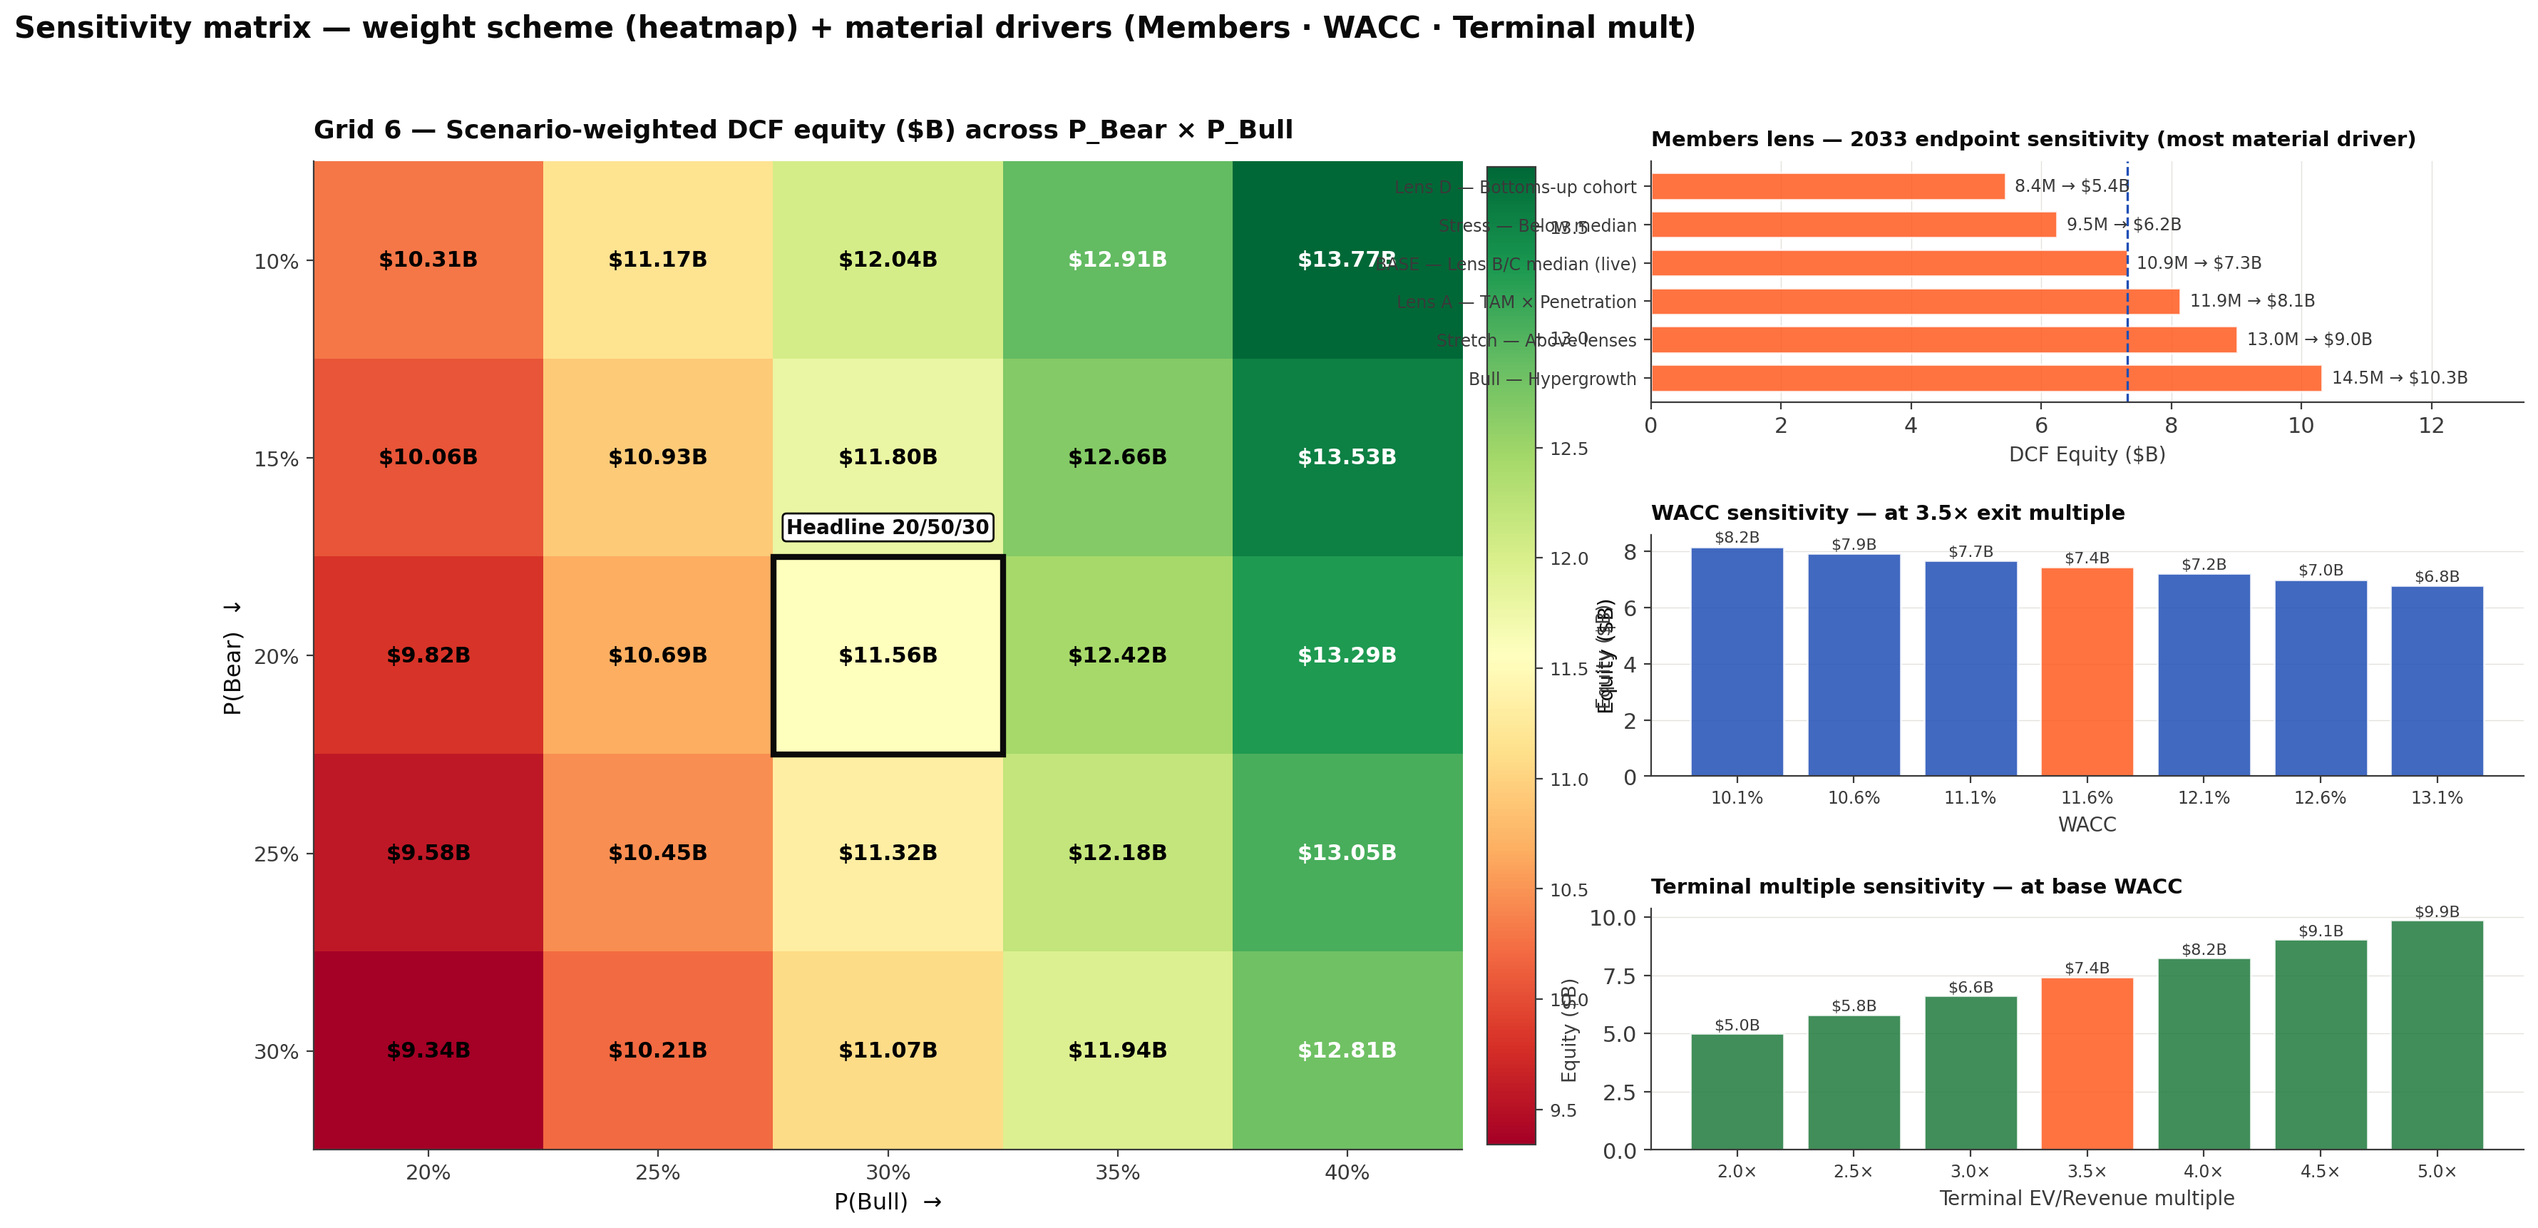
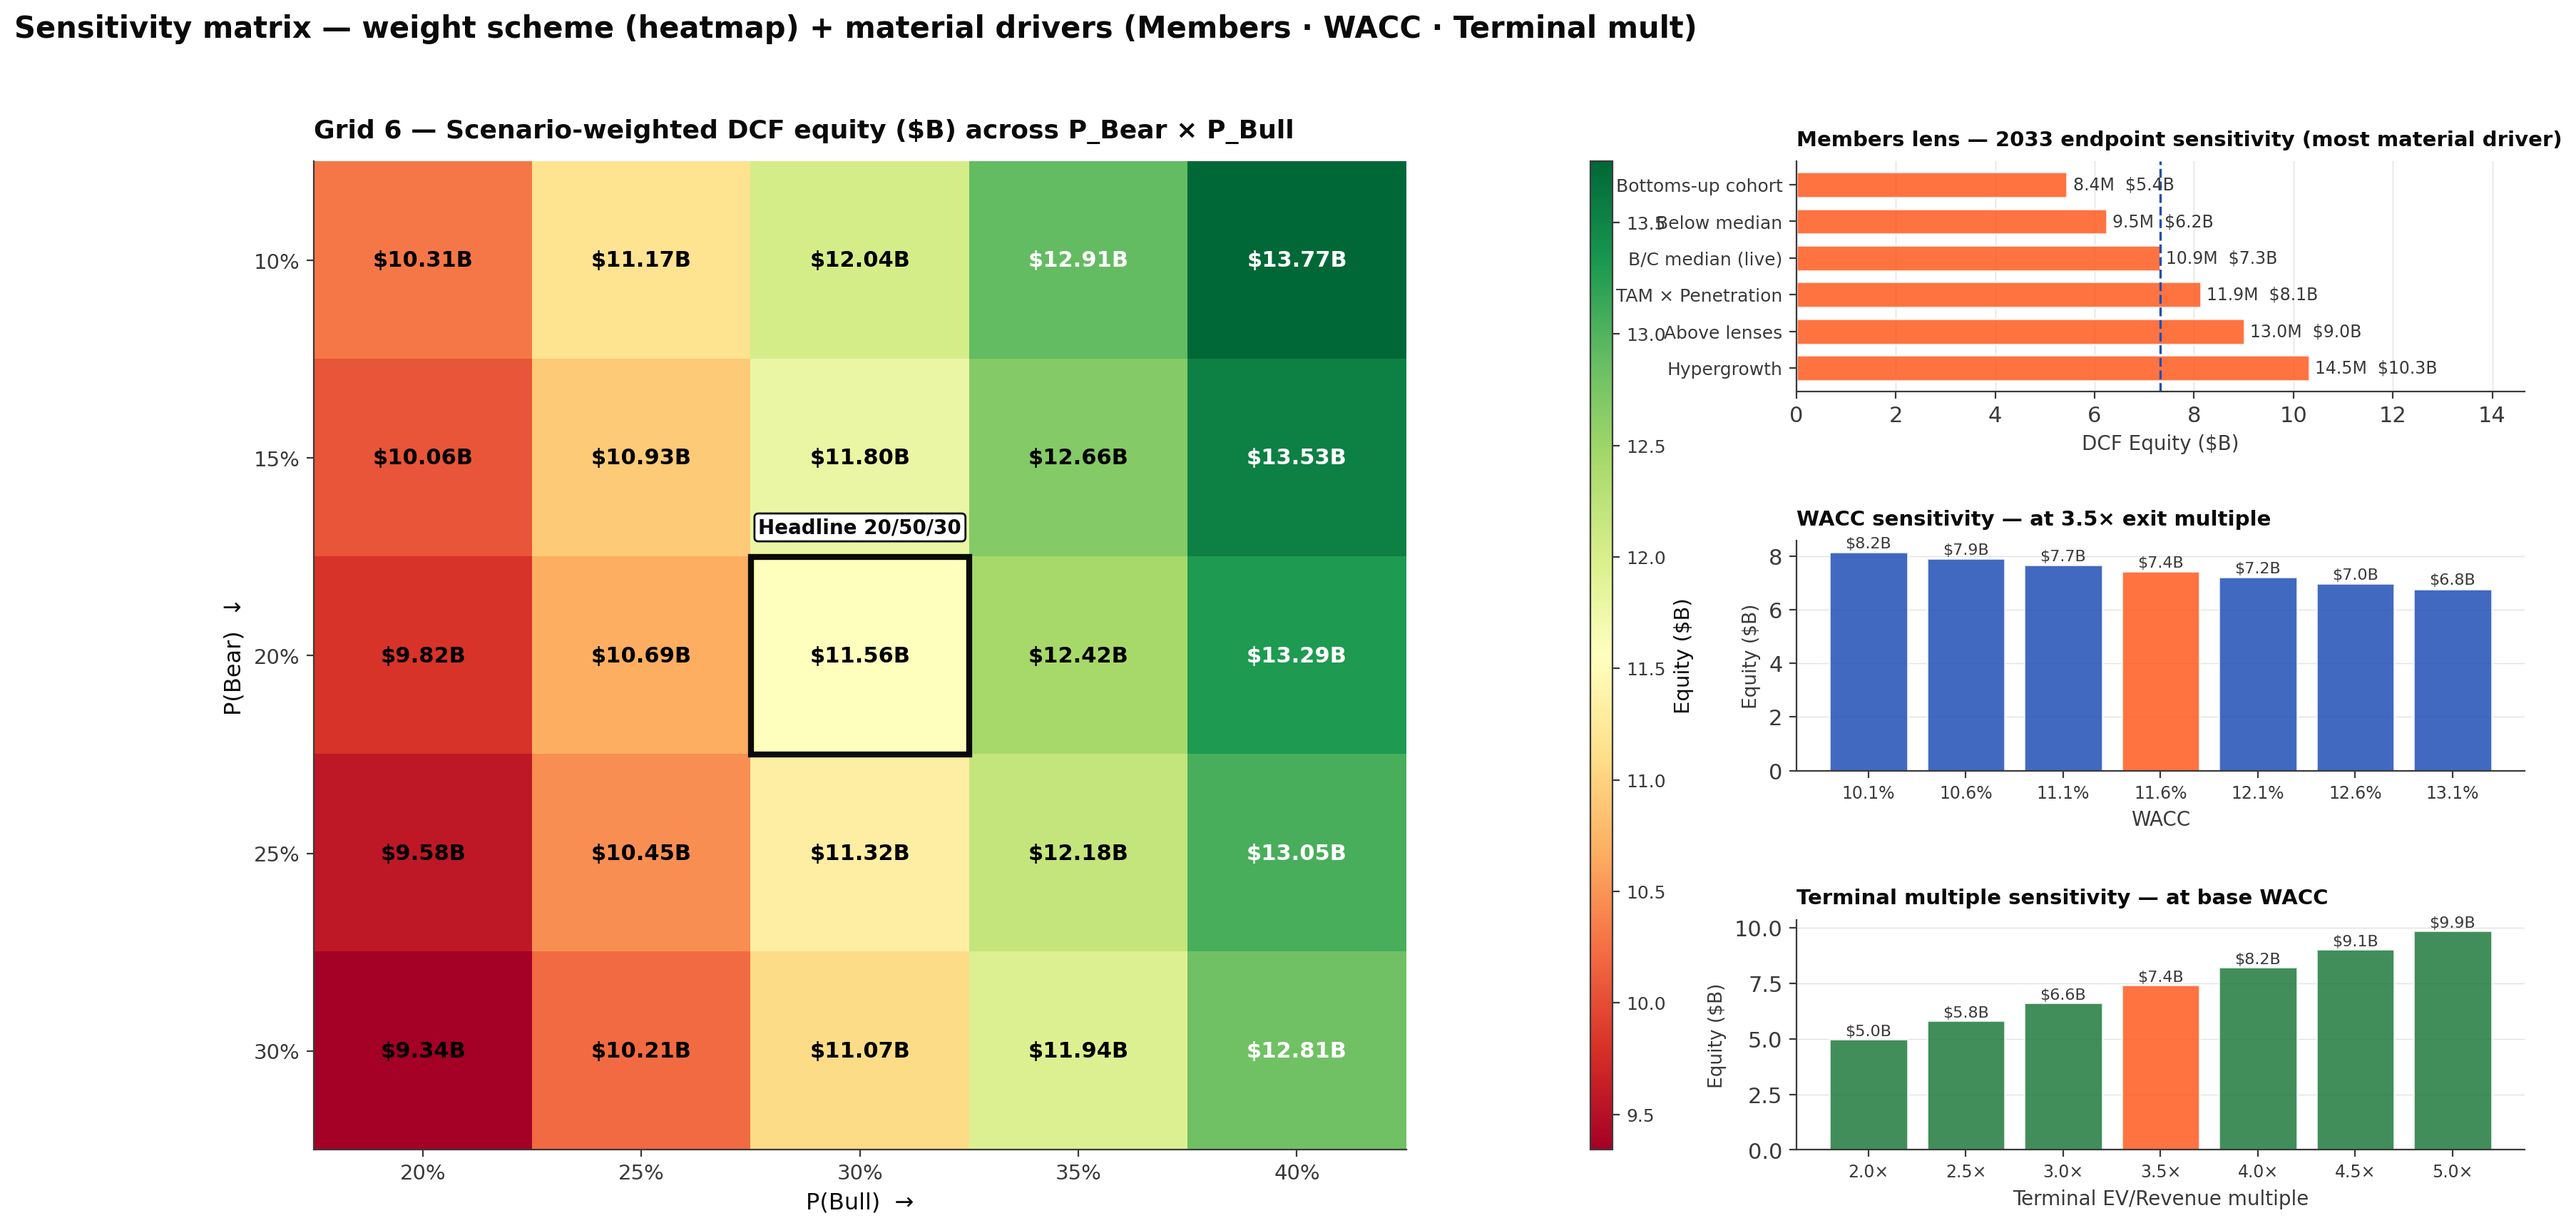
Clean up sensitivity_heatmap visual
- Move colorbar to a dedicated gridspec axis so it stops bleeding
  into the right-panel charts.
- Widen wspace and adjust width ratios for breathing room.
- Strip "Lens N — " prefix from Members lens labels so they fit
  inside the subplot's allocated width.

https://claude.ai/code/session_011NjNecq8udaBKafA5Jqxzj

diff --git a/scripts/build_visuals.py b/scripts/build_visuals.py
@@ -543,7 +543,7 @@ def assumption_inventory():
 def sensitivity_heatmap():
     fig = plt.figure(figsize=(20, 9.0))
     gs = fig.add_gridspec(3, 3, height_ratios=[1, 1, 1],
-                          width_ratios=[1.4, 0.05, 1.0], hspace=0.55, wspace=0.05)
+                          width_ratios=[1.5, 0.03, 1.0], hspace=0.65, wspace=0.30)
 
     # ----- LEFT: Grid 6 — P_Bear × P_Bull heatmap (spans all 3 rows) -----
     axH = fig.add_subplot(gs[:, 0])
@@ -587,8 +587,9 @@ def sensitivity_heatmap():
     except (ValueError, IndexError):
         pass
 
-    # Colorbar
-    cbar = fig.colorbar(im, ax=axH, fraction=0.04, pad=0.02)
+    # Colorbar — dedicated axis in gridspec column 1
+    cax = fig.add_subplot(gs[:, 1])
+    cbar = fig.colorbar(im, cax=cax)
     cbar.set_label("Equity ($B)", fontsize=10.5, color=DARK)
     cbar.ax.tick_params(labelsize=9)
 
@@ -600,20 +601,24 @@ def sensitivity_heatmap():
         # Use the "EV Coupled" column when present, else EV constant
         members  = [r["members_2033"] for r in g7]
         ev_vals  = [(r.get("ev_coupled") or r.get("ev_const") or 0) / 1000 for r in g7]
-        labels   = [(r.get("lens") or "")[:32] for r in g7]
+        def _clean(s):
+            s = (s or "").split(" — ")[-1]
+            if s.startswith("Lens "): s = s[5:]
+            return s[:18]
+        labels   = [_clean(r.get("lens")) for r in g7]
         axA.barh(range(len(members)), ev_vals, color=ORANGE, alpha=0.85,
                  edgecolor="white", height=0.7)
         axA.set_yticks(range(len(members)))
-        axA.set_yticklabels(labels, fontsize=8.5)
+        axA.set_yticklabels(labels, fontsize=9)
         axA.invert_yaxis()
         for i, (m, e) in enumerate(zip(members, ev_vals)):
-            axA.text(e + 0.15, i, f"{m:.1f}M → ${e:.1f}B",
+            axA.text(e + 0.12, i, f"{m:.1f}M  ${e:.1f}B",
                      va="center", fontsize=8.5, color=GRAY_BD)
         axA.set_xlabel("DCF Equity ($B)", fontsize=10, color=GRAY_BD)
         axA.set_title("Members lens — 2033 endpoint sensitivity (most material driver)",
                       fontsize=10.5, fontweight="bold", color=DARK, loc="left", pad=8)
         axA.axvline(M["base_equity"]/1000, color=NAVY, linestyle="--", linewidth=1.2)
-        axA.set_xlim(0, max(ev_vals) * 1.30)
+        axA.set_xlim(0, max(ev_vals) * 1.42)
         axA.grid(axis="x", color=GRAY_LT, linewidth=0.5, alpha=0.7)
         axA.set_axisbelow(True)
 
